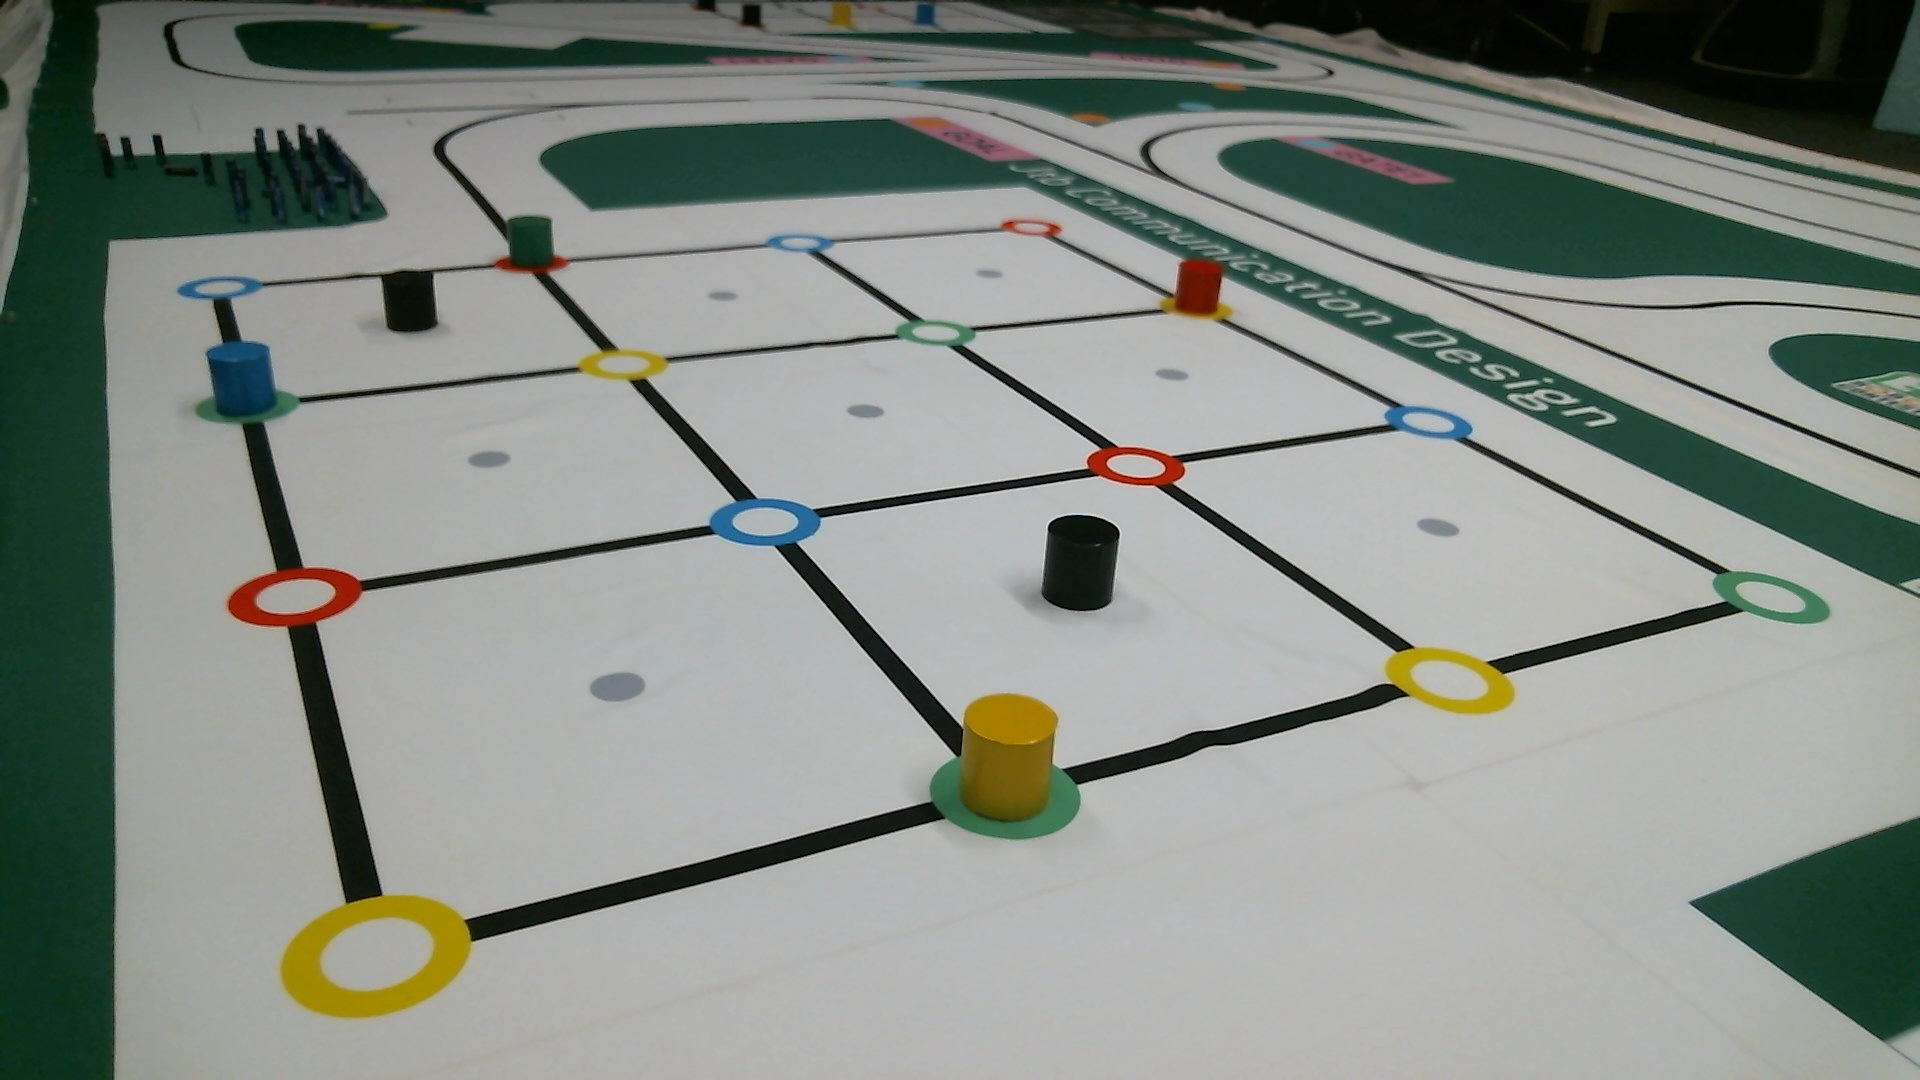
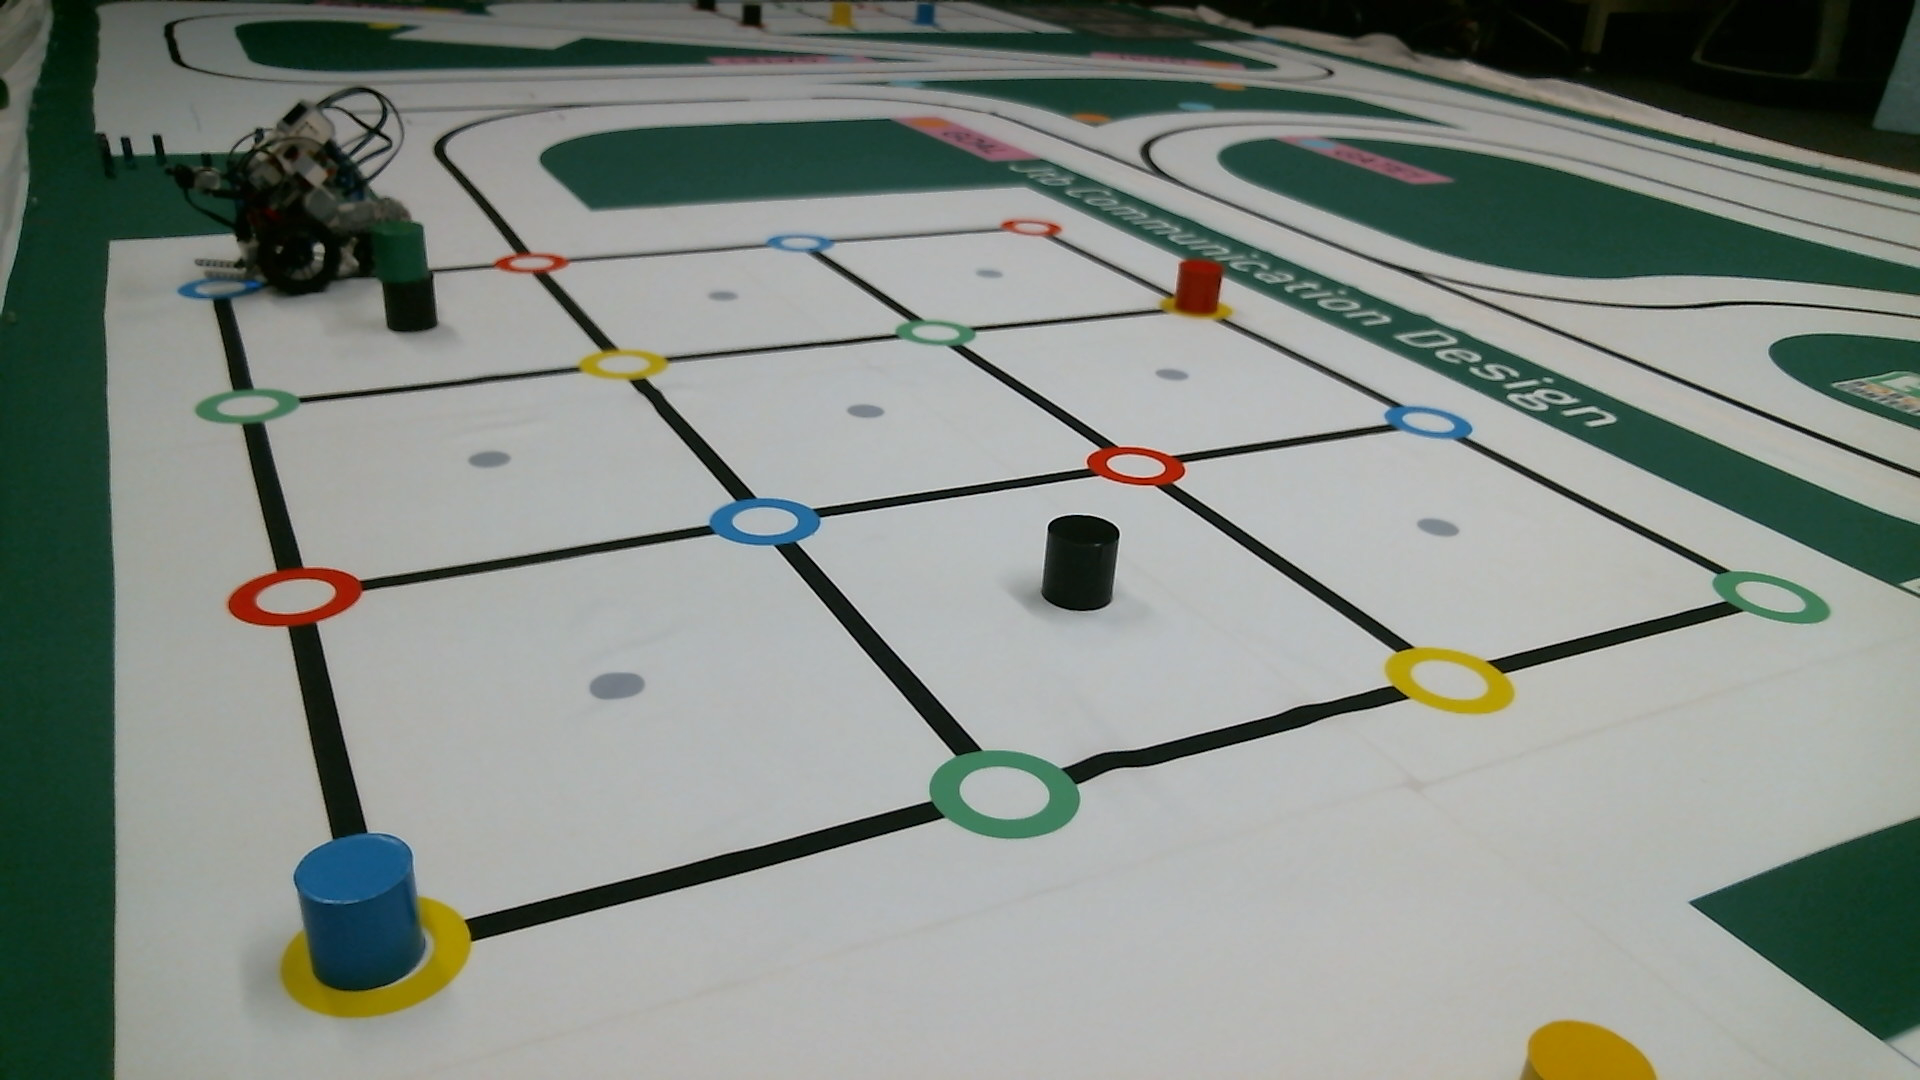
[fix]一度判定されたブロックの場合，保存しておき見つからなくなった場合でも過去の場所を表示するように変更

diff --git a/main.py b/main.py
@@ -160,7 +160,6 @@ def get_block_position():
         if len(color_block_position) <= i:
             color_block_position.append(0)
 
-    print(color_block_position)
     for i in range(0, len(black_position)):
         try:
             if black[0][0] <= black_position[i][0] <= black[0][2] and black[0][1] <= black_position[i][1] <= black[0][3]:
@@ -175,7 +174,6 @@ def get_block_position():
         if i in color_block_position:
             send_color_data.append(color_block_position.index(i))
         else:  # もし見つけることが出来なかった場合
-            print('tmp', tmp_color)
             if i in tmp_color:
                 send_color_data.append(tmp_color.index(i))  # 一度見つけた色はその色を表示する
                 color_block_position[tmp_color.index(i)] = i
@@ -220,9 +218,11 @@ cap = cv.VideoCapture(cam_url)
 wname = "MouseEvent"
 frame_count = 1
 
+get_block_position_flag = False
+
 # BlueToothの初期化
 try:
-    ser = serial.Serial('/dev/tty.MindstormsEV3-SerialPor', 9600)  # tty.MindstormsEV3-SerialPor or tty.Mindstorms-SerialPortPr
+    ser ='' # serial.Serial('/dev/tty.MindstormsEV3-SerialPor', 9600)  # tty.MindstormsEV3-SerialPor or tty.Mindstorms-SerialPortPr
 except :
     ser = ''
 
@@ -247,6 +247,8 @@ while True:
         outs = net.forward(getOutputsNames(net))
         postprocess(im, outs)
         frame_count = 1
+        if get_block_position_flag:
+            get_block_position()
 
         # ウィンドウの表示
         cv.imshow(winName, im)
@@ -267,13 +269,14 @@ while True:
         text = 'Black Block @%s' % str(9-len(black_position))
     else:
         text = 'Complete'
+        get_block_position_flag = True
+
 
     # 四角の描画やマウスイベントの設定
     cv.setMouseCallback(winName, mouse_event)
 
     # BlueToothで座標データの送信
     if line:  # ロボットからシグナルが来ている場合
-        get_block_position()
         send_data = ''
         print('color', send_color_data)
         print('black', send_black_data)
@@ -297,7 +300,6 @@ while True:
     # ボタン押下時のイベント作成
     key = cv.waitKey(1) & 0xff
     if key == ord('s'):
-        get_block_position()
         print(send_color_data, send_black_data)
     if key == ord('q'):
         cv.destroyAllWindows()
